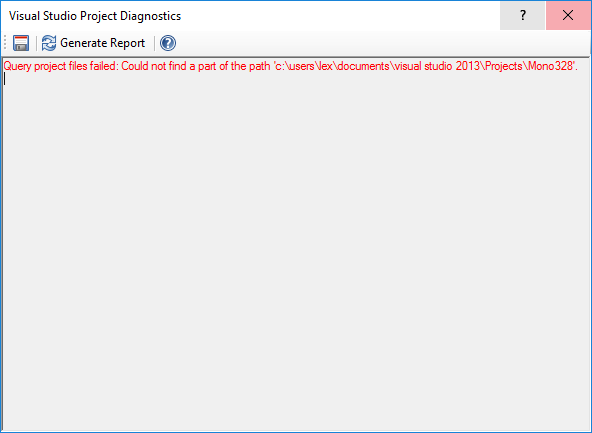
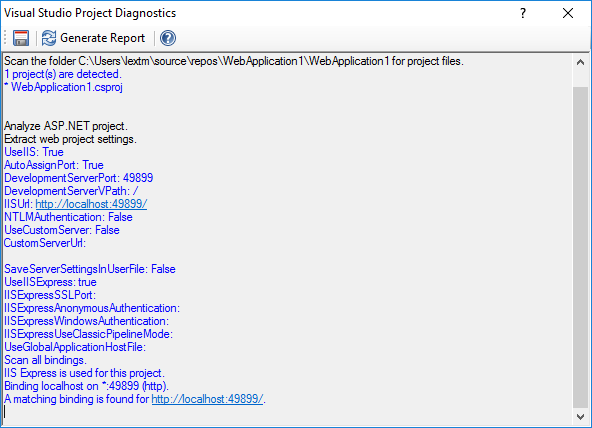
Updated project diag info.

diff --git a/manager/tutorials/express-specific.rst b/manager/tutorials/express-specific.rst
@@ -19,79 +19,107 @@ Microsoft has listed several key differences in the article below,
 
 http://www.iis.net/learn/extensions/introduction-to-iis-express/iis-express-overview
 
-It might contain the key information but some users could not understand it easily.
+It might contain the key information but some users could not understand it
+easily.
 
 Enable External Access
 ----------------------
-IIS Express by default does not accept external requests. You can choose from the two approaches below to configure IIS Express to serve such requests.
+IIS Express by default does not accept external requests. You can choose from
+the two approaches below to configure IIS Express to serve such requests.
 
 Simplest Approach
 ^^^^^^^^^^^^^^^^^
 
-#. Run Jexus Manager as administrator. Then IIS Express worker processes launched by it can hook to http.sys automatically.
+#. Run Jexus Manager as administrator. Then IIS Express worker processes
+   launched by it can hook to http.sys automatically.
 #. Click the IIS Express server node you would like to manage.
 #. Under Sites node, choose a site.
 #. Click Bindings... menu item on Actions panel.
-#. In Edit Bindings dialog, choose a binding that says "localhost" under "Host Name", and click Edit... button.
-#. In Edit Site Binding dialog, remove the host header value under "Host name:", leave it blank, and click OK.
-#. If a prompt says "The specific host name is not recommended for IIS Express...", click OK.
+#. In Edit Bindings dialog, choose a binding that says "localhost" under "Host
+   Name", and click Edit... button.
+#. In Edit Site Binding dialog, remove the host header value under "Host
+   name:", leave it blank, and click OK.
+#. If a prompt says "The specific host name is not recommended for IIS Express
+   ...", click OK.
 #. In Edit Bindings dialog, click Close.
-#. Click Start menu item on Actions panel. This launches an IIS Express worker process with external access enabled.
+#. Click Start menu item on Actions panel. This launches an IIS Express worker
+   process with external access enabled.
 
 Alternative Approach
 ^^^^^^^^^^^^^^^^^^^^
-.. note:: This approach only requires one time elevation to configure reserved URLs.
+.. note:: This approach only requires one time elevation to configure reserved
+   URLs.
 
 #. Run Jexus Manager normally.
 #. Click the IIS Express server node you would like to manage.
 #. Click HTTP API icon in the middle.
 #. Switched to Reserved URL tab.
 #. Click Add... menu item on Actions panel.
-#. In Add Reserved URL dialog, type the URL prefix (for example, "http://\*:8080/") and click OK. Elevation would be required.
-#. Under Sites node, choose a site which has a site binding of "localhost on \*:8080 (http)".
+#. In Add Reserved URL dialog, type the URL prefix (for example,
+   "http://\*:8080/") and click OK. Elevation would be required.
+#. Under Sites node, choose a site which has a site binding of "localhost on
+   \*:8080 (http)".
 #. Click Bindings... menu item on Actions panel.
-#. In Edit Bindings dialog, choose a binding that says "localhost" under "Host Name", and click Edit... button.
-#. In Edit Site Binding dialog, remove the host header value under "Host name:", leave it blank, and click OK.
-#. If a prompt says "The specific host name is not recommended for IIS Express...", click OK.
+#. In Edit Bindings dialog, choose a binding that says "localhost" under "Host
+   Name", and click Edit... button.
+#. In Edit Site Binding dialog, remove the host header value under "Host
+   name:", leave it blank, and click OK.
+#. If a prompt says "The specific host name is not recommended for IIS Express
+   ...", click OK.
 #. In Edit Bindings dialog, click Close.
-#. Click Start menu item on Actions panel. This launches an IIS Express worker process with external access enabled.
+#. Click Start menu item on Actions panel. This launches an IIS Express worker
+   process with external access enabled.
 
 Enable Android Emulator Access
 ------------------------------
-Sometimes application testing might requires mobile apps on Android Emulator to access web apps on IIS Express.
+Sometimes application testing might requires mobile apps on Android Emulator to
+access web apps on IIS Express.
 
 Simplest Approach
 ^^^^^^^^^^^^^^^^^
 #. Run Jexus Manager normally.
 #. Click the IIS Express server node you would like to manage.
-#. Under Sites node, choose a site which would be exposed to Android Emulator (assume its binding is "localhost on \*:8080 (http)").
+#. Under Sites node, choose a site which would be exposed to Android Emulator
+   (assume its binding is "localhost on \*:8080 (http)").
 #. Click Bindings... menu item on Actions panel.
-#. In Edit Bindings dialog, choose a binding that says "localhost" under "Host Name", and click Edit... button.
-#. In Edit Site Binding dialog, replace the host header value under "Host name:" with "127.0.0.1" (without quotes), and click OK.
-#. If a prompt says "The specific host name is not recommended for IIS Express...", click OK.
+#. In Edit Bindings dialog, choose a binding that says "localhost" under "Host
+   Name", and click Edit... button.
+#. In Edit Site Binding dialog, replace the host header value under "Host
+   name:" with "127.0.0.1" (without quotes), and click OK.
+#. If a prompt says "The specific host name is not recommended for IIS Express
+   ...", click OK.
 #. In Edit Bindings dialog, click Close.
-#. Click Start menu item on Actions panel. This launches an IIS Express worker process.
+#. Click Start menu item on Actions panel. This launches an IIS Express worker
+   process.
 
-As Google Android Emulator sends HTTP requests with host header set to 127.0.0.1, after changing the binding the web site should be 
-accessible via http://10.0.2.2:8080 (Android Emulator forwards requests from 10.0.2.2 to the local IIS Express).
+As Google Android Emulator sends HTTP requests with host header set to
+127.0.0.1, after changing the binding the web site should be accessible via
+http://10.0.2.2:8080 (Android Emulator forwards requests from 10.0.2.2 to the
+local IIS Express).
 
-.. note:: Other Android Emulator might require some extra steps or special input.
+.. note:: Other Android Emulator might require some extra steps or special
+   input.
 
 Alternative Approach
 ^^^^^^^^^^^^^^^^^^^^
-Follow "Enable External Access" section, and then the Android Emulator should be able to access the site.
+Follow "Enable External Access" section, and then the Android Emulator should
+be able to access the site.
 
 Further Explanation
 -------------------
 
 Application Pools
 ^^^^^^^^^^^^^^^^^
-Though IIS Express uses the same format of configuration file (``applicationHost.config``), and each web sites has an application pool assigned, it does not support 
-application pool at all. Every time an IIS Express instance is launched, it always uses the current user's credentials, and ignore the identity setting in 
-``applicationHost.config``.
+Though IIS Express uses the same format of configuration file (
+``applicationHost.config``), and each web sites has an application pool
+assigned, it does not support application pool at all. Every time an IIS
+Express instance is launched, it always uses the current user's credentials,
+and ignore the identity setting in ``applicationHost.config``.
 
-As IIS Express is a single instance server, there is no application pool recycle either. You can manually stop and restart the process, but that's different from 
-application pool recycle (which by default uses the overlapped mode).
+As IIS Express is a single instance server, there is no application pool
+recycle either. You can manually stop and restart the process, but that's
+different from application pool recycle (which by default uses the overlapped
+mode).
 
 This is what Microsoft means by saying "user launches and terminates sites".
 

diff --git a/manager/tutorials/oob-500.rst b/manager/tutorials/oob-500.rst
@@ -3,7 +3,8 @@ OOB Related 500.19 Errors
 
 By `Lex Li`_
 
-This page shows you how to use Jexus Manager to analyze IIS Out-Of-Band (OOB) related 500.19 errors.
+This page shows you how to use Jexus Manager to analyze IIS Out-Of-Band (OOB)
+related 500.19 errors.
 
 .. contents:: In this article:
   :local:
@@ -11,7 +12,8 @@ This page shows you how to use Jexus Manager to analyze IIS Out-Of-Band (OOB) re
 
 Background
 ----------
-IIS 7+ functionality can be extended by installing OOB modules. For example, the following configuration can be put in `web.config` of a web site,
+IIS 7+ functionality can be extended by installing OOB modules. For example,
+the following configuration can be put in `web.config` of a web site,
 
 .. code-block:: xml
 
@@ -27,8 +29,9 @@ IIS 7+ functionality can be extended by installing OOB modules. For example, the
       </rewrite>
     </system.webServer>
   </configuration>
-  
-It relies on IIS URL Rewrite module, which is a separate download. If the web server does not yet have the module installed, an error page would occur,
+
+It relies on IIS URL Rewrite module, which is a separate download. If the web
+server does not yet have the module installed, an error page would occur,
 
 .. image:: _static/oob_500.png
 
@@ -36,13 +39,15 @@ The error message does not reveal enough information, nor the root cause.
 
 Detailed Error Message by Jexus Manager
 ---------------------------------------
-If you use Jexus Manager to open this web site and check any of its settings (like Authentication), a thorough analysis is performed on `web.config`, and such issues 
-would be identified and reported
+If you use Jexus Manager to open this web site and check any of its settings
+(like Authentication), a thorough analysis is performed on `web.config`, and
+such issues would be identified and reported,
 
 .. image:: _static/oob_dialog.png
 
-Clearly Jexus Manager not only shows the exact line number in the config file, but also indicates the OOB module name and its download link. Simply follow the link
-to download and install the module, and the errors would disappear.
+Clearly Jexus Manager not only shows the exact line number in the config file,
+but also indicates the OOB module name and its download link. Simply follow the
+link to download and install the module, and the errors would disappear.
 
 Related Resources
 -----------------

diff --git a/manager/tutorials/ssl-diagnostics.rst b/manager/tutorials/ssl-diagnostics.rst
@@ -11,9 +11,9 @@ This page shows you how to use SSL Diagnostics.
 
 Background
 ----------
-IIS 6 used to have a great suite of troubleshooting tools. One of them was for SSL related diagnostics, called
-`SSL Diagnostics (SSL Diag or SSLDiag for short) <https://technet.microsoft.com/en-us/library/cc780913(v=ws.10).aspx>`_
-.
+IIS 6 used to have a great suite of troubleshooting tools. One of them was for
+SSL related diagnostics, called `SSL Diagnostics (SSL Diag or SSLDiag for short
+) <https://technet.microsoft.com/en-us/library/cc780913(v=ws.10).aspx>`_ .
 
 As SSLDiag was designed for IIS 6 and relied on IIS ADSI API (which is now
 obsolete), this tool was not made available for IIS 7 and above.
@@ -22,9 +22,14 @@ Of course you can use the IIS 6 version if you enable IIS 6 Compatibility
 component on IIS 7 and above, but it would be less convenient.
 
 A Microsoft employee Vijayshinva Karnure developed a newer version that relied
-only on IIS 7+ new API, and `released it on IIS.net <https://www.iis.net/downloads/community/2009/09/ssl-diagnostics-tool-for-iis-7>`_ .
+only on IIS 7+ new API, and `released it on IIS.net
+<https://www.iis.net/downloads/community/2009/09/ssl-diagnostics-tool-for-iis-7>`_ .
 
 It works for all IIS versions (up to 10), but it does not work for IIS Express.
+
+.. note:: The previous tools were designed without SHA-2 and recent SSL/TLS
+   best practices in mind. Their reports can simply miss recent warnings on
+   obsolete SHA-1 certificates and obsolete protocols like SSL 3.0.
 
 The Built-in SSL Diagnostics in Jexus Manager
 ---------------------------------------------
@@ -46,6 +51,9 @@ Typical things analyzed by SSL Diagnostics,
    * Subject Alternative Name extension (should present as browsers require).
    * Private key availability.
    * Chain verification.
+
+This SSL Diagnostics tool is updated often to include more checks on recent SSL
+/TLS best practices.
 
 Related Resources
 -----------------

diff --git a/manager/tutorials/vs-diagnostics.rst b/manager/tutorials/vs-diagnostics.rst
@@ -11,18 +11,31 @@ This page shows you how to use Visual Studio Project Diagnostics.
 
 Background
 ----------
-Visual Studio web projects contain some IIS settings, while VS also writes some settings directly to IIS/IIS Express configuration files. Sometimes such 
-settings go out of sync and you simply hit the famous errors such as "Unable to launch the IIS Express Web server".
+Visual Studio web projects contain some IIS settings, while VS also writes some
+settings directly to IIS/IIS Express configuration files. Sometimes such
+settings go out of sync and you simply hit the famous errors such as "Unable to
+launch the IIS Express Web server".
+
+.. important:: You might spend enough time to dig into the different files on
+   your own to achieve the same goal.
 
 The Built-in Visual Studio Project Diagnostics
 ----------------------------------------------
-For web sites opened in Jexus Manager, there is an action called Visual Studio Project Diagnostics showed.
+For web sites opened in Jexus Manager, there is an action called Project
+Diagnostics showed.
 
 .. image:: _static/vs_diag.png
 
 A report is generated when "Generate Report" button is clicked.
 
 .. image:: _static/vs_report.png
+
+Typical things analyzed by Project Diagnostics,
+
+* Visual Studio project type, ASP.NET 4.x or ASP.NET Core.
+* Different files that control the settings.
+* IIS/IIS Express related settings are extracted and displayed for reference.
+* Automatic error detection to locate typical out-of-sync issues.
 
 Related Resources
 -----------------

diff --git a/manager/tutorials/inplace-elevation.rst b/manager/tutorials/inplace-elevation.rst
@@ -11,21 +11,26 @@ This page shows you how Jexus Manager informs that UAC elevation is required.
 
 Background
 ----------
-Jexus Manager can run as a normal user to navigate the settings. Meanwhile, web servers such as IIS Express can run as a normal user.
+Jexus Manager can run as a normal user to navigate the settings. Meanwhile, web
+servers such as IIS Express can run as a normal user.
 
-However, there are certain operations that require administrator permissions to execute. Some examples are certificate creation and HTTP API modification.
+However, there are certain operations that require administrator permissions to
+execute. Some examples are certificate creation and HTTP API modification.
 
 Elevation Shield
 ----------------
-The UAC shield icon appears whenever some operations require administrator permissions. 
+The UAC shield icon appears whenever some operations require administrator
+permissions.
 
 .. image:: _static/elevation_binding.png
 
 .. image:: _static/elevation_remove.png
 
-By clicking such buttons, permission elevation is executed on demand. There is no need then to run Jexus Manager entirely as administrator.
+By clicking such buttons, permission elevation is executed on demand. There is
+no need then to run Jexus Manager entirely as administrator.
 
-For operations that do not require elevation, the buttons are displayed without the shield icon.
+For operations that do not require elevation, the buttons are displayed without
+the shield icon.
 
 .. image:: _static/normal_binding.png
 

diff --git a/manager/tutorials/local-iis.rst b/manager/tutorials/local-iis.rst
@@ -11,18 +11,21 @@ This page shows you how to use Jexus Manager to manage local IIS instance.
 
 Background
 ----------
-There are several issues with IIS Manager that you might not be able to use it to troubleshoot IIS configuration issues，
+There are several issues with IIS Manager that you might not be able to use it
+to troubleshoot IIS configuration issues，
 
 * IIS Manager strictly requires administrator permissions.
-* When a site configuration contains errors, IIS Manager shows an error dialog that tells nothing useful. (A 500.19 error 
+* When a site configuration contains errors, IIS Manager shows an error dialog
+  that tells nothing useful. (A 500.19 error 
   page would be showed when accessing such a site.)
 
 .. image:: _static/iis_manager_error.png
 
 Jexus Manager Benefits
 ----------------------
-Jexus Manager can run as a normal user to navigate the settings, and its exception dialog provides the same or even better 
-error message when an error in configuration is detected.
+Jexus Manager can run as a normal user to navigate the settings, and its
+exception dialog provides the same or even better error message when an error
+in configuration is detected.
 
 .. image:: _static/jexus_manager_error.png
 

diff --git a/manager/tutorials/jexus-specific.rst b/manager/tutorials/jexus-specific.rst
@@ -11,7 +11,8 @@ This page shows you how to use Jexus Manager to manage Jexus specific settings.
 
 Background
 ----------
-Jexus web server does have some special settings that are not yet mapped to IIS configuration system.
+Jexus web server does have some special settings that are not yet mapped to IIS
+configuration system.
 
 Jexus Page
 ----------
@@ -19,9 +20,12 @@ Jexus Manager displays a Jexus page for every Jexus web servers it manages.
 
 .. image:: _static/jexus_page.png
 
-Since Jexus settings are stored as key-value pair, this simple editor allows you to modify the pairs freely and apply the changes at will when everything looks good to you.
+Since Jexus settings are stored as key-value pair, this simple editor allows
+you to modify the pairs freely and apply the changes at will when everything
+looks good to you.
 
-.. note:: If you are not sure of any setting, you can click the Help link and navigate to our documentation site.
+.. note:: If you are not sure of any setting, you can click the Help link and
+   navigate to our documentation site.
 
 Related Resources
 -----------------

diff --git a/manager/tutorials/get-updated.rst b/manager/tutorials/get-updated.rst
@@ -11,7 +11,9 @@ This page shows you how to find Jexus Manager update.
 
 Background
 ----------
-Jexus Manager has been updated frequently to address crashes and other critical issues that affect user experience. Thus, it is very important to run its latest release.
+Jexus Manager has been updated frequently to address crashes and other critical
+issues that affect user experience. Thus, it is very important to run its
+latest release.
 
 Steps to Find Update
 --------------------
@@ -19,7 +21,9 @@ Jexus Manager offers a update wizard,
 
 #. Click Help | Check Update menu item.
 
-This wizard checks the current release in use and then compare its version number against the latest release at GitHub so as to tell if an update is needed.
+This wizard checks the current release in use and then compare its version
+number against the latest release at GitHub so as to tell if an update is
+needed.
 
 If an update is found, this wizard can help you navigate to the download page.
 

diff --git a/manager/tutorials/https-binding.rst b/manager/tutorials/https-binding.rst
@@ -64,6 +64,10 @@ in Jexus Manager we can see the certificate selected for each bindings,
 Jexus Manager also reads HTTP API mappings to determine which certificate to
 show.
 
+.. important:: All such can be done via equivalent ``netsh`` commands if you
+   rather not download and use such a visual tool. Ask Google to learn the
+   commands then.
+
 IP Based Bindings
 -----------------
 If “Require Server Name Indication” is not checked, then this binding is not

diff --git a/manager/tutorials/php-diagnostics.rst b/manager/tutorials/php-diagnostics.rst
@@ -35,6 +35,8 @@ A report is generated when "Generate Report" button is clicked.
 The report also provides reference links which might lead you to the right
 track.
 
+.. important:: PHP Manager for IIS is revived at http://www.phpmanager.xyz .
+
 Related Resources
 -----------------
 
